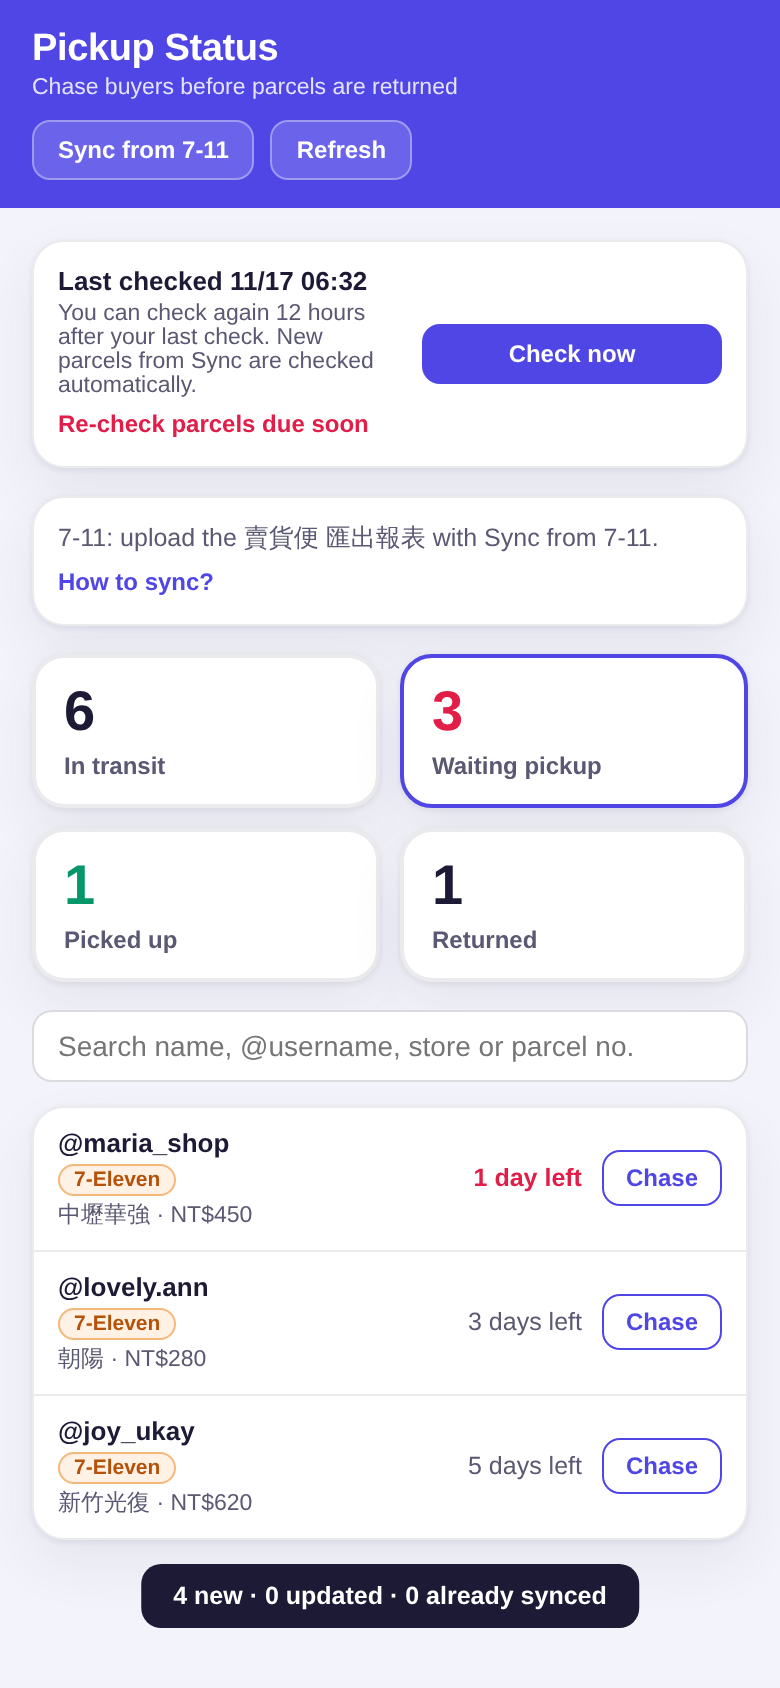
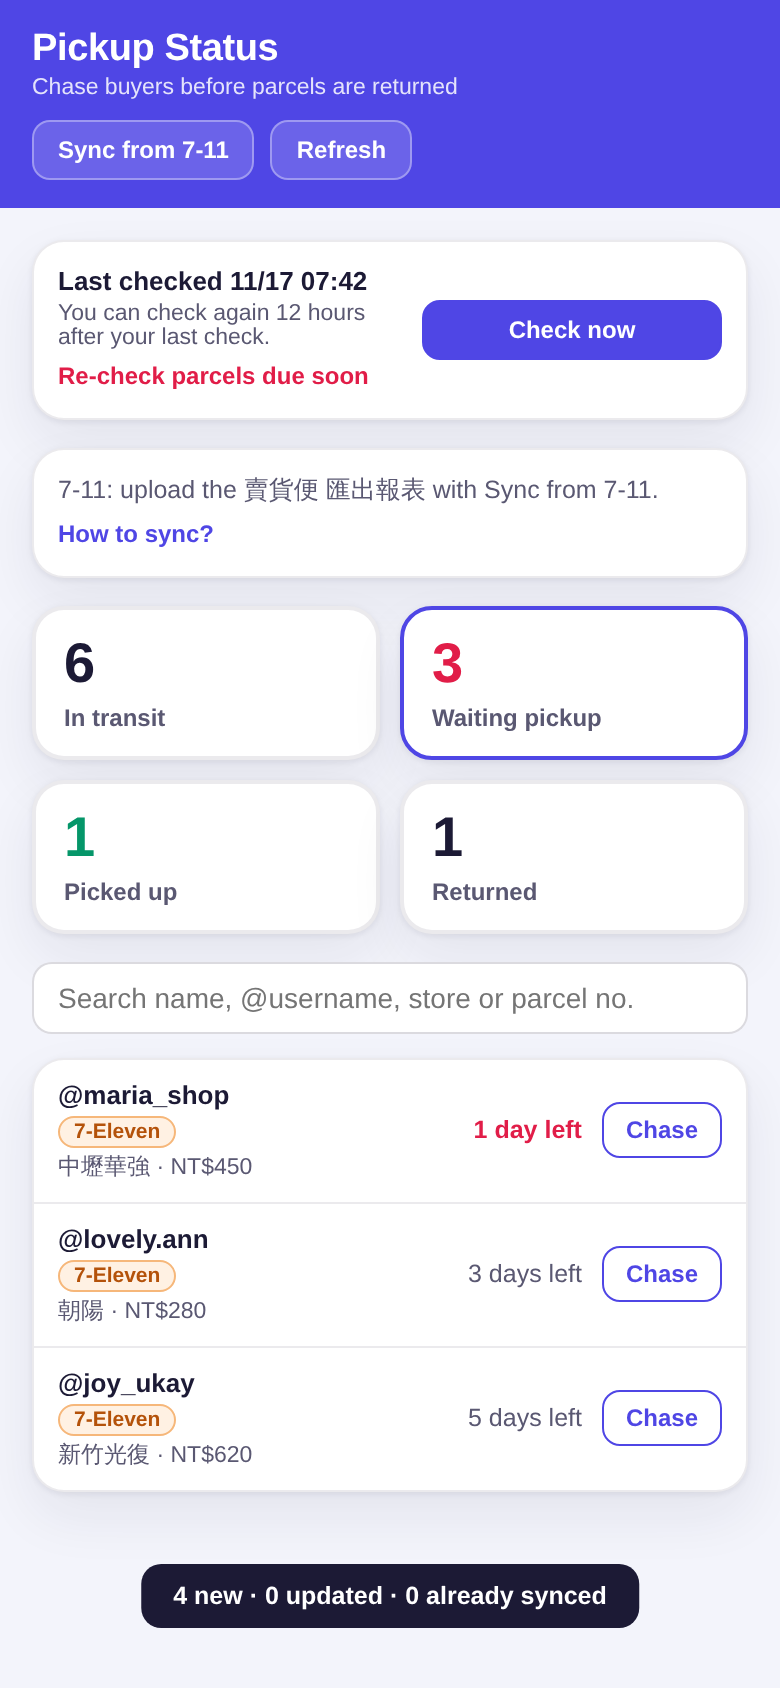
Pickup Status: three texts no longer say new parcels are checked automatically
Only the false part is removed, in all 8 languages, no new claims:
- rd_pt_check_note → "You can check again 12 hours after your last check."
- rd_pt_sync_s4    → "Usernames appear right away under In transit." (each language's own
                     In transit tab label)
- rd_pt_empty_s3   → "Your parcels appear here."
New test pins English exactly and checks all 8 languages for any automatic-check claim; 2
deliberate breaks fail it (proof/texts-breaks.txt). NEW screenshots re-taken (390 / 360 /
1280) plus scenes 5 (How to sync?) and 6 (no parcels), TODAY and NEW.

Claude-Session: https://claude.ai/code/session_016eKNVUSjjPXywP8qaFW4Mh

Changed region(s): [[0.0308, 0.154, 0.9846, 0.8934], [0.7692, 0.7393, 0.9231, 0.8009], [0.6462, 0.7393, 0.7385, 0.8009]]

diff --git a/src/redesign/i18n/index.tsx b/src/redesign/i18n/index.tsx
@@ -2700,7 +2700,7 @@ const RAW: Record<string, Row> = {
   rd_pt_sync_s1: { en: "In Parcel Scan, enter the buyer's @username → export → upload to 賣貨便 as usual.", fil: "Sa Parcel Scan, ilagay ang @username ng buyer → i-export → i-upload sa 賣貨便 gaya ng dati.", zh: "在包裹扫描中输入买家 @帐号 → 导出 → 照常上传到賣貨便。", "zh-TW": "在包裹掃描中輸入買家 @帳號 → 匯出 → 照常上傳到賣貨便。", vi: "Trong Parcel Scan, nhập @username người mua → xuất → tải lên 賣貨便 như thường lệ.", th: "ใน Parcel Scan ใส่ @username ผู้ซื้อ → ส่งออก → อัปโหลดไป 賣貨便 ตามปกติ", id: "Di Parcel Scan, isi @username pembeli → ekspor → unggah ke 賣貨便 seperti biasa.", bg: "В Parcel Scan въведи @username на купувача → експортирай → качи в 賣貨便 както обикновено." },
   rd_pt_sync_s2: { en: "賣家訂單 → 待出貨 → 匯出報表 (download it in a normal browser, not inside the app).", fil: "賣家訂單 → 待出貨 → 匯出報表 (i-download sa normal na browser, hindi sa loob ng app).", zh: "賣家訂單 → 待出貨 → 匯出報表（在一般浏览器下载，不要在 App 内）。", "zh-TW": "賣家訂單 → 待出貨 → 匯出報表（在一般瀏覽器下載，不要在 App 內）。", vi: "賣家訂單 → 待出貨 → 匯出報表 (tải bằng trình duyệt thường, không trong app).", th: "賣家訂單 → 待出貨 → 匯出報表 (ดาวน์โหลดในเบราว์เซอร์ปกติ ไม่ใช่ในแอป)", id: "賣家訂單 → 待出貨 → 匯出報表 (unduh di browser biasa, bukan di dalam app).", bg: "賣家訂單 → 待出貨 → 匯出報表 (свали го в обикновен браузър, не в приложението)." },
   rd_pt_sync_s3: { en: "Pickup Status → Sync from 7-11 → pick the file.", fil: "Pickup Status → I-sync mula sa 7-11 → piliin ang file.", zh: "取件状态 → 从 7-11 同步 → 选择文件。", "zh-TW": "取件狀態 → 從 7-11 同步 → 選擇檔案。", vi: "Trạng thái lấy hàng → Đồng bộ từ 7-11 → chọn tệp.", th: "สถานะรับพัสดุ → ซิงค์จาก 7-11 → เลือกไฟล์", id: "Status Ambil → Sinkron dari 7-11 → pilih file.", bg: "Статус на получаване → Синхронизирай от 7-11 → избери файла." },
-  rd_pt_sync_s4: { en: "Usernames appear right away under Waiting pickup; new parcels are checked automatically within a few minutes.", fil: "Lalabas agad ang usernames sa Hinihintay kunin; awtomatikong ichi-check ang mga bagong parcel sa loob ng ilang minuto.", zh: "帐号会立即出现在「待取货」中；新包裹会在几分钟内自动检查。", "zh-TW": "帳號會立即出現在「待取件」中；新包裹會在幾分鐘內自動檢查。", vi: "Username hiện ngay trong mục Chờ lấy hàng; bưu kiện mới được kiểm tra tự động trong vài phút.", th: "username จะแสดงทันทีในรายการ “รอรับ” พัสดุใหม่จะถูกตรวจอัตโนมัติภายในไม่กี่นาที", id: "Username langsung muncul di Menunggu diambil; paket baru dicek otomatis dalam beberapa menit.", bg: "Имената се появяват веднага в „Чакат получаване“; новите пратки се проверяват автоматично до няколко минути." },
+  rd_pt_sync_s4: { en: "Usernames appear right away under In transit.", fil: "Lalabas agad ang usernames sa Nasa biyahe.", zh: "帐号会立即出现在「运送中」中。", "zh-TW": "帳號會立即出現在「運送中」中。", vi: "Username hiện ngay trong mục Đang giao.", th: "username จะแสดงทันทีในรายการ “กำลังส่ง”", id: "Username langsung muncul di Dalam perjalanan.", bg: "Имената се появяват веднага в „В движение“." },
   rd_pt_err_signed_out: { en: "Sign in again, then retry.", fil: "Mag-sign in ulit, tapos subukan muli.", zh: "请重新登录，然后再试一次。", "zh-TW": "請重新登入，然後再試一次。", vi: "Hãy đăng nhập lại rồi thử lại.", th: "กรุณาเข้าสู่ระบบอีกครั้ง แล้วลองใหม่", id: "Masuk lagi, lalu coba ulang.", bg: "Влезте отново и опитайте пак." },
   rd_pt_err_permission: { en: "Your plan doesn't include Pickup Status.", fil: "Hindi kasama ang Pickup Status sa plan mo.", zh: "你的方案不包含取件状态功能。", "zh-TW": "你的方案不包含取件狀態功能。", vi: "Gói của bạn không bao gồm Trạng thái nhận hàng.", th: "แพ็กเกจของคุณไม่รวมสถานะการรับพัสดุ", id: "Paket Anda tidak termasuk Status Pengambilan.", bg: "Планът ви не включва „Статус на получаване“." },
   rd_pt_err_partial: { en: "Saved {n} of {m} parcels — retry to save the rest.", fil: "Na-save ang {n} sa {m} na parcel — subukan ulit para ma-save ang natitira.", zh: "已保存 {m} 个包裹中的 {n} 个 — 请重试以保存其余包裹。", "zh-TW": "已儲存 {m} 個包裹中的 {n} 個 — 請重試以儲存其餘包裹。", vi: "Đã lưu {n}/{m} bưu kiện — hãy thử lại để lưu phần còn lại.", th: "บันทึกแล้ว {n} จาก {m} พัสดุ — ลองอีกครั้งเพื่อบันทึกส่วนที่เหลือ", id: "Tersimpan {n} dari {m} paket — coba lagi untuk menyimpan sisanya.", bg: "Запазени {n} от {m} пратки — опитайте пак, за да запазите останалите." },
@@ -2716,7 +2716,7 @@ const RAW: Record<string, Row> = {
   rd_pt_empty_title: { en: "No parcels yet — 3 steps to start", fil: "Wala pang parcel — 3 hakbang para magsimula", zh: "还没有包裹 — 3 步开始", "zh-TW": "還沒有包裹 — 3 步開始", vi: "Chưa có bưu kiện — 3 bước để bắt đầu", th: "ยังไม่มีพัสดุ — เริ่มได้ใน 3 ขั้นตอน", id: "Belum ada paket — 3 langkah untuk mulai", bg: "Още няма пратки — 3 стъпки за начало" },
   rd_pt_empty_s1: { en: "Export 匯出報表 from 賣貨便 on your laptop.", fil: "I-export ang 匯出報表 mula sa 賣貨便 sa laptop mo.", zh: "在电脑上从 賣貨便 导出 匯出報表。", "zh-TW": "在電腦上從 賣貨便 匯出 匯出報表。", vi: "Xuất 匯出報表 từ 賣貨便 trên máy tính.", th: "ส่งออก 匯出報表 จาก 賣貨便 บนคอมพิวเตอร์", id: "Ekspor 匯出報表 dari 賣貨便 di laptop Anda.", bg: "Експортирайте 匯出報表 от 賣貨便 на лаптопа си." },
   rd_pt_empty_s2: { en: "Tap Sync from 7-11 and pick that file.", fil: "I-tap ang I-sync mula sa 7-11 at piliin ang file.", zh: "点「从 7-11 同步」并选择该文件。", "zh-TW": "點「從 7-11 同步」並選擇該檔案。", vi: "Chạm Đồng bộ từ 7-11 và chọn tệp đó.", th: "แตะซิงค์จาก 7-11 แล้วเลือกไฟล์นั้น", id: "Ketuk Sinkron dari 7-11 dan pilih file itu.", bg: "Докоснете „Синхронизирай от 7-11“ и изберете файла." },
-  rd_pt_empty_s3: { en: "Your parcels appear here and new ones are checked automatically.", fil: "Lalabas dito ang mga parcel mo at awtomatikong ichi-check ang mga bago.", zh: "包裹会显示在这里，新包裹会自动检查。", "zh-TW": "包裹會顯示在這裡，新包裹會自動檢查。", vi: "Bưu kiện hiện ở đây và bưu kiện mới được kiểm tra tự động.", th: "พัสดุจะแสดงที่นี่ และพัสดุใหม่จะถูกตรวจโดยอัตโนมัติ", id: "Paket muncul di sini dan paket baru dicek otomatis.", bg: "Пратките се появяват тук, а новите се проверяват автоматично." },
+  rd_pt_empty_s3: { en: "Your parcels appear here.", fil: "Lalabas dito ang mga parcel mo.", zh: "包裹会显示在这里。", "zh-TW": "包裹會顯示在這裡。", vi: "Bưu kiện hiện ở đây.", th: "พัสดุจะแสดงที่นี่", id: "Paket muncul di sini.", bg: "Пратките се появяват тук." },
   rd_pt_dismiss: { en: "Dismiss", fil: "Isara", zh: "关闭", "zh-TW": "關閉", vi: "Đóng", th: "ปิด", id: "Tutup", bg: "Затвори" },
   rd_pt_sync_empty: { en: "No parcels found in this file — use the 匯出報表 file.", fil: "Walang parcel sa file na ito — gamitin ang 匯出報表 file.", zh: "此文件中没有包裹——请使用「匯出報表」文件。", "zh-TW": "此檔案中沒有包裹——請使用「匯出報表」檔案。", vi: "Không tìm thấy kiện hàng trong tệp này — hãy dùng tệp 匯出報表.", th: "ไม่พบพัสดุในไฟล์นี้ — ใช้ไฟล์ 匯出報表", id: "Tidak ada paket di file ini — gunakan file 匯出報表.", bg: "Няма пратки в този файл — използвай файла 匯出報表." },
   rd_pt_loading: { en: "Loading…", fil: "Naglo-load…", zh: "加载中…", "zh-TW": "載入中…", vi: "Đang tải…", th: "กำลังโหลด…", id: "Memuat…", bg: "Зареждане…" },
@@ -2738,7 +2738,7 @@ const RAW: Record<string, Row> = {
   rd_pt_check_now: { en: "Check now", fil: "I-check ngayon", zh: "立即检查", "zh-TW": "立即檢查", vi: "Kiểm tra ngay", th: "ตรวจตอนนี้", id: "Cek sekarang", bg: "Провери сега" },
   rd_pt_checking: { en: "Checking…", fil: "Nagche-check…", zh: "检查中…", "zh-TW": "檢查中…", vi: "Đang kiểm tra…", th: "กำลังตรวจ…", id: "Sedang dicek…", bg: "Проверява се…" },
   rd_pt_next_at: { en: "Next check available {time}", fil: "Puwedeng mag-check ulit {time}", zh: "下次可检查时间 {time}", "zh-TW": "下次可檢查時間 {time}", vi: "Có thể kiểm tra lại lúc {time}", th: "ตรวจครั้งถัดไปได้ {time}", id: "Bisa cek lagi {time}", bg: "Следваща проверка след {time}" },
-  rd_pt_check_note: { en: "You can check again 12 hours after your last check. New parcels from Sync are checked automatically.", fil: "Puwedeng mag-check ulit 12 oras pagkatapos ng huling check mo. Awtomatikong ichi-check ang mga bagong parcel mula sa Sync.", zh: "上次检查后 12 小时可再次检查。同步的新包裹会自动检查。", "zh-TW": "上次檢查後 12 小時可再次檢查。同步的新包裹會自動檢查。", vi: "Bạn có thể kiểm tra lại sau 12 giờ kể từ lần kiểm tra trước. Bưu kiện mới từ Đồng bộ được kiểm tra tự động.", th: "ตรวจได้อีกครั้งหลังการตรวจครั้งล่าสุด 12 ชั่วโมง พัสดุใหม่จากการซิงค์จะถูกตรวจอัตโนมัติ", id: "Anda bisa cek lagi 12 jam setelah cek terakhir. Paket baru dari Sinkron dicek otomatis.", bg: "Можете да проверите отново 12 часа след последната проверка. Новите пратки от синхронизацията се проверяват автоматично." },
+  rd_pt_check_note: { en: "You can check again 12 hours after your last check.", fil: "Puwedeng mag-check ulit 12 oras pagkatapos ng huling check mo.", zh: "上次检查后 12 小时可再次检查。", "zh-TW": "上次檢查後 12 小時可再次檢查。", vi: "Bạn có thể kiểm tra lại sau 12 giờ kể từ lần kiểm tra trước.", th: "ตรวจได้อีกครั้งหลังการตรวจครั้งล่าสุด 12 ชั่วโมง", id: "Anda bisa cek lagi 12 jam setelah cek terakhir.", bg: "Можете да проверите отново 12 часа след последната проверка." },
   rd_pt_job_done: { en: "Updated {n} of {m} parcels", fil: "Na-update ang {n} sa {m} parcel", zh: "已更新 {m} 件中的 {n} 件", "zh-TW": "已更新 {m} 件中的 {n} 件", vi: "Đã cập nhật {n}/{m} bưu kiện", th: "อัปเดตแล้ว {n} จาก {m} พัสดุ", id: "Diperbarui {n} dari {m} paket", bg: "Обновени {n} от {m} пратки" },
   rd_pt_job_partial: { en: "Updated {n} of {m} parcels — the rest on the next check", fil: "Na-update ang {n} sa {m} parcel — ang iba sa susunod na check", zh: "已更新 {m} 件中的 {n} 件，其余的下次检查", "zh-TW": "已更新 {m} 件中的 {n} 件，其餘的下次檢查", vi: "Đã cập nhật {n}/{m} bưu kiện — phần còn lại ở lần kiểm tra sau", th: "อัปเดตแล้ว {n} จาก {m} พัสดุ ที่เหลือจะตรวจครั้งถัดไป", id: "Diperbarui {n} dari {m} paket — sisanya di pengecekan berikutnya", bg: "Обновени {n} от {m} пратки — останалите при следващата проверка" },
   rd_pt_job_nothing: { en: "Nothing to check yet — all parcels were checked recently", fil: "Wala pang ichi-check — kaka-check lang ng lahat ng parcel", zh: "暂时没有需要检查的包裹 — 所有包裹最近都已检查", "zh-TW": "暫時沒有需要檢查的包裹 — 所有包裹最近都已檢查", vi: "Chưa có gì để kiểm tra — tất cả bưu kiện vừa được kiểm tra", th: "ยังไม่มีอะไรต้องตรวจ — พัสดุทั้งหมดเพิ่งถูกตรวจไป", id: "Belum ada yang perlu dicek — semua paket baru saja dicek", bg: "Още няма нищо за проверка — всички пратки са проверени наскоро" },

diff --git a/src/redesign/i18n/__tests__/pickupNoAutoCheckTexts.test.ts b/src/redesign/i18n/__tests__/pickupNoAutoCheckTexts.test.ts
@@ -1,0 +1,29 @@
+// Pickup Status (2026-11-17): no check runs at Sync any more. The three texts that said new parcels
+// are checked automatically keep only their true part, in all 8 languages — no new claims.
+import { describe, it, expect } from "vitest";
+import { buildT } from "../index";
+
+const LANGS = ["en", "fil", "zh", "zh-TW", "vi", "th", "id", "bg"] as const;
+// "automatic(ally)" / "within a few minutes" in each language of the old texts
+const AUTO = /automatic|awtomatiko|自动|自動|tự động|อัตโนมัติ|otomatis|автоматично|few minutes|ilang minuto|几分钟|幾分鐘|vài phút|ไม่กี่นาที|beberapa menit|няколко минути/i;
+const KEYS = ["rd_pt_check_note", "rd_pt_sync_s4", "rd_pt_empty_s3"] as const;
+
+describe("Pickup Status texts: no claim that new parcels are checked automatically", () => {
+  it("English, exactly", () => {
+    const t = buildT("en");
+    expect(t.rd_pt_check_note).toBe("You can check again 12 hours after your last check.");
+    expect(t.rd_pt_sync_s4).toBe("Usernames appear right away under In transit.");
+    expect(t.rd_pt_empty_s3).toBe("Your parcels appear here.");
+  });
+  for (const lang of LANGS) {
+    it(`${lang}: no automatic-check claim, nothing empty; s4 names the In transit tab`, () => {
+      const t = buildT(lang);
+      for (const k of KEYS) {
+        expect(t[k], `${lang}.${k}`).toBeTruthy();
+        expect(t[k], `${lang}.${k}`).not.toMatch(AUTO);
+      }
+      expect(t.rd_pt_sync_s4).toContain(t.rd_pt_tab_transit);
+      expect(t.rd_pt_sync_s4).not.toContain(t.rd_pt_card_waiting);
+    });
+  }
+});

diff --git a/src/redesign/screens/__tests__/ParcelTracking.sync.test.tsx b/src/redesign/screens/__tests__/ParcelTracking.sync.test.tsx
@@ -43,7 +43,9 @@ describe("Pickup Status — Sync from 賣貨便", () => {
     await waitFor(() => expect(r.getByTestId("pt-sync-card")).toBeTruthy());
     expect(r.queryByTestId("pt-sync-how")).toBeNull();
     fireEvent.click(r.getByTestId("pt-sync-how-toggle"));
-    expect(r.getByTestId("pt-sync-how").textContent).toContain("checked automatically");
+    const how = r.getByTestId("pt-sync-how").textContent;
+    expect(how).toContain("Usernames appear right away under In transit.");
+    expect(how).not.toContain("automatically"); // no check runs at Sync (2026-11-17)
   });
 
   it("success → toast with new / updated / already-synced counts + reload", async () => {
@@ -130,7 +132,7 @@ describe("N2 — empty state: 3 steps + the Sync button right there", () => {
     expect(steps).toHaveLength(3);
     expect(steps[0].textContent).toContain("匯出報表");
     expect(steps[1].textContent).toContain("Sync from 7-11");
-    expect(steps[2].textContent).toContain("checked automatically");
+    expect(steps[2].textContent).toBe("Your parcels appear here.");
     expect(r.queryByTestId("pt-sync-card")).toBeNull();
     expect(r.getByTestId("pt-empty-sync").textContent).toBe("Sync from 7-11");
   });

diff --git a/docs/design/pickup-check-flow/README.md b/docs/design/pickup-check-flow/README.md
@@ -9,13 +9,16 @@ NEW = this branch. iPhone 390 · Android 360 · laptop 1280; 0 px horizontal ove
 | 2 | Same, In transit tab | 2 moving parcels | + the 4 "Not checked yet" parcels (no Chase) |
 | 3 | A press that found nothing checkable (only just-synced parcels) | "Nothing to check yet — all parcels were checked recently" | "No parcels can be checked yet." |
 | 4 | Sync of 4 new parcels | toast + "New parcels are being checked now." + Checking… | toast only, Check now stays ready |
+| 5 | "How to sync?" opened | step 4: "Usernames appear right away under Waiting pickup; new parcels are checked automatically within a few minutes." | "Usernames appear right away under In transit." |
+| 6 | No parcels yet | step 3: "Your parcels appear here and new ones are checked automatically." | "Your parcels appear here." |
+
+On every shot the line under "Last checked" is now only "You can check again 12 hours after your last check."
+(TODAY adds "New parcels from Sync are checked automatically."). Shots 1–4 NEW were re-taken after that fix.
 
 Files: `<n>-<scene>_<device>_<today|new>.png`. Proof outputs (tests + deliberate breaks): `proof/`.
 
-Not changed here (waits for Jeff): the "⚠ Returning" wording for an old check, and three texts that
-still say new parcels are checked automatically — `rd_pt_check_note` (visible in every shot, under
-"Last checked"), `rd_pt_sync_s4` (How to sync?), `rd_pt_empty_s3` (empty screen).
+Not changed here (waits for Jeff's preview approval): the "⚠ Returning" wording for an old check.
 
 Re-shoot: start `npx vite --config docs/design/pickup-check-flow/harness/vite.config.mjs --port 5310`
 here and the same on port 5311 in a `main` worktree with `harness/` copied in, then
-`node docs/design/pickup-check-flow/harness/shoot.cjs`.
+`node docs/design/pickup-check-flow/harness/shoot.cjs [today|new] [scenes, e.g. 5,6]`.
